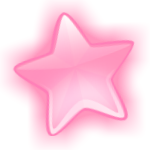
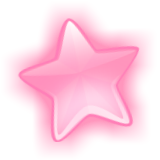
버튼 이미지 수정했다.

diff --git a/MemoryTest/ViewController.m b/MemoryTest/ViewController.m
@@ -245,18 +245,18 @@
     [self openDB];
     
     // 버튼 이미지 할당
-    [self.buttonOne setImage:[UIImage imageNamed:@"star1@2x.png"] forState:UIControlStateNormal];
-        [self.buttonOne setImage:[UIImage imageNamed:@"star1@2x.png"] forState:UIControlStateDisabled];
-            [self.buttonOne setImage:[UIImage imageNamed:@"star1_s@2x.png"] forState:UIControlStateHighlighted];
+    [self.buttonOne setImage:[UIImage imageNamed:@"star1@2x.png"] forState:UIControlStateNormal]; // 노말
+    [self.buttonOne setImage:[UIImage imageNamed:@"star1@2x.png"] forState:UIControlStateDisabled]; // disable
+    [self.buttonOne setImage:[UIImage imageNamed:@"star1_s@2x.png"] forState:UIControlStateHighlighted]; // 누를 때
     [self.buttonTwo setImage:[UIImage imageNamed:@"star2@2x.png"] forState:UIControlStateNormal];
-        [self.buttonTwo setImage:[UIImage imageNamed:@"star2@2x.png"] forState:UIControlStateDisabled];
-            [self.buttonTwo setImage:[UIImage imageNamed:@"star2_s@2x.png"] forState:UIControlStateHighlighted];
+    [self.buttonTwo setImage:[UIImage imageNamed:@"star2@2x.png"] forState:UIControlStateDisabled];
+    [self.buttonTwo setImage:[UIImage imageNamed:@"star2_s@2x.png"] forState:UIControlStateHighlighted];
     [self.buttonThree setImage:[UIImage imageNamed:@"star3@2x.png"] forState:UIControlStateNormal];
-        [self.buttonThree setImage:[UIImage imageNamed:@"star3@2x.png"] forState:UIControlStateDisabled];
-            [self.buttonThree setImage:[UIImage imageNamed:@"star3_s@2x.png"] forState:UIControlStateHighlighted];
+    [self.buttonThree setImage:[UIImage imageNamed:@"star3@2x.png"] forState:UIControlStateDisabled];
+    [self.buttonThree setImage:[UIImage imageNamed:@"star3_s@2x.png"] forState:UIControlStateHighlighted];
     [self.buttonFour setImage:[UIImage imageNamed:@"star4@2x.png"] forState:UIControlStateNormal];
-        [self.buttonFour setImage:[UIImage imageNamed:@"star4@2x.png"] forState:UIControlStateDisabled];
-            [self.buttonFour setImage:[UIImage imageNamed:@"star4_s@2x.png"] forState:UIControlStateHighlighted];
+    [self.buttonFour setImage:[UIImage imageNamed:@"star4@2x.png"] forState:UIControlStateDisabled];
+    [self.buttonFour setImage:[UIImage imageNamed:@"star4_s@2x.png"] forState:UIControlStateHighlighted];
 }
 
 - (void)didReceiveMemoryWarning
